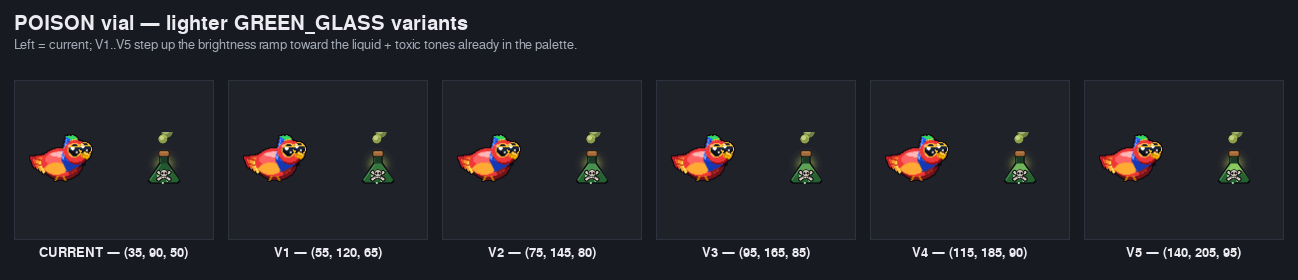
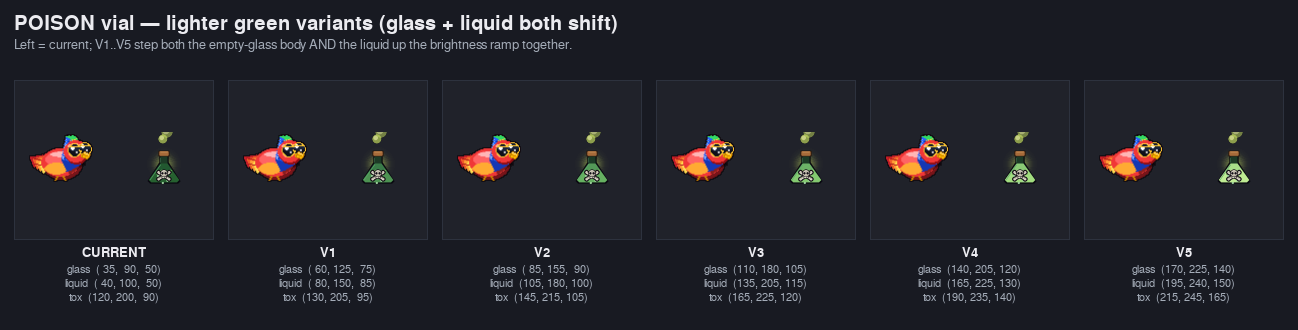
Poison vial: re-roll variant sheet to shift glass + liquid + meniscus together

diff --git a/tools/render_poison_green_variants.py b/tools/render_poison_green_variants.py
@@ -1,9 +1,10 @@
-"""Poison vial — GREEN_GLASS brightness comparison sheet.
+"""Poison vial — full green-palette brightness comparison.
 
-Five lighter candidates for the dominant glass-body green, plus a
-left-most CURRENT cell so the user can see how much brighter each
-candidate reads vs today's (35, 90, 50). Each cell shows Pip + the
-vial at the live 56-px display footprint against a charcoal card.
+Five lighter variants of the vial that shift BOTH the empty-glass
+body (GREEN_GLASS) AND the liquid (GREEN_LO) up the brightness ramp
+together. The meniscus colour (GREEN_TOX) is also lifted on the
+brightest variants so the toxic surface line stays readable above
+the liquid.
 
 Output: docs/screenshots/icon_sizes/poison_green_variants.png
 """
@@ -26,13 +27,22 @@ pygame.display.set_mode((1, 1))
 from game import poison_vial, parrot
 
 
+# Each entry: (label, GREEN_GLASS, GREEN_LO, GREEN_TOX).
+# CURRENT keeps GREEN_TOX as-is; later variants step it up too so the
+# meniscus stays the brightest layer.
 VARIANTS = (
-    ("CURRENT", poison_vial.GREEN_GLASS),
-    ("V1", ( 55, 120,  65)),
-    ("V2", ( 75, 145,  80)),
-    ("V3", ( 95, 165,  85)),
-    ("V4", (115, 185,  90)),
-    ("V5", (140, 205,  95)),
+    ("CURRENT",
+        ( 35,  90,  50), ( 40, 100,  50), (120, 200,  90)),
+    ("V1",
+        ( 60, 125,  75), ( 80, 150,  85), (130, 205,  95)),
+    ("V2",
+        ( 85, 155,  90), (105, 180, 100), (145, 215, 105)),
+    ("V3",
+        (110, 180, 105), (135, 205, 115), (165, 225, 120)),
+    ("V4",
+        (140, 205, 120), (165, 225, 130), (190, 235, 140)),
+    ("V5",
+        (170, 225, 140), (195, 240, 150), (215, 245, 165)),
 )
 
 
@@ -50,27 +60,37 @@ def _font(size, bold=False):
     return pygame.font.SysFont("Arial", size, bold=bold)
 
 
-def _draw_vial(surf, cx, cy, glass_rgb):
-    """Render the live poison_vial sprite with GREEN_GLASS swapped
-    to `glass_rgb` for this render only. Restores the original
-    constant + cache after."""
+def _draw_vial(surf, cx, cy, glass_rgb, liquid_rgb, tox_rgb):
+    """Render the vial with the three greens swapped for this render
+    only. Restores the originals + cache after."""
     prev_glass = poison_vial.GREEN_GLASS
+    prev_lo    = poison_vial.GREEN_LO
+    prev_tox   = poison_vial.GREEN_TOX
     prev_cache = getattr(poison_vial, "_VIAL_CACHE", None)
     poison_vial.GREEN_GLASS = glass_rgb
+    poison_vial.GREEN_LO    = liquid_rgb
+    poison_vial.GREEN_TOX   = tox_rgb
     poison_vial._VIAL_CACHE = None
     poison_vial.draw(surf, int(cx), int(cy), 0.0)
     poison_vial.GREEN_GLASS = prev_glass
+    poison_vial.GREEN_LO    = prev_lo
+    poison_vial.GREEN_TOX   = prev_tox
     poison_vial._VIAL_CACHE = prev_cache
 
 
-def _build_cell(glass_rgb):
+def _build_cell(glass_rgb, liquid_rgb, tox_rgb):
     cell = pygame.Surface((CELL_W, CELL_H))
     cell.fill((32, 34, 42))
     pip = parrot.get_parrot(0, 0.0)
     cell.blit(pip, pip.get_rect(center=(46, CELL_H // 2)))
-    _draw_vial(cell, CELL_W - 50, CELL_H // 2, glass_rgb)
+    _draw_vial(cell, CELL_W - 50, CELL_H // 2,
+               glass_rgb, liquid_rgb, tox_rgb)
     pygame.draw.rect(cell, (45, 50, 62), cell.get_rect(), 1)
     return cell
+
+
+def _fmt(rgb):
+    return f"({rgb[0]:>3}, {rgb[1]:>3}, {rgb[2]:>3})"
 
 
 def main():
@@ -81,29 +101,36 @@ def main():
 
     n = len(VARIANTS)
     sheet_w = PAD * 2 + n * (CELL_W + PAD) - PAD
-    sheet_h = HEADER_H + CELL_H + 40
+    sheet_h = HEADER_H + CELL_H + 90
     sheet = pygame.Surface((sheet_w, sheet_h))
     sheet.fill(CARD_BG)
 
     title = _font(20, bold=True).render(
-        "POISON vial — lighter GREEN_GLASS variants",
+        "POISON vial — lighter green variants (glass + liquid both shift)",
         True, LABEL)
     sheet.blit(title, (PAD, 14))
     sub = _font(13).render(
-        "Left = current; V1..V5 step up the brightness ramp toward the "
-        "liquid + toxic tones already in the palette.",
+        "Left = current; V1..V5 step both the empty-glass body AND the "
+        "liquid up the brightness ramp together.",
         True, SUB)
     sheet.blit(sub, (PAD, 38))
 
-    for i, (code, rgb) in enumerate(VARIANTS):
+    for i, (code, glass, lo, tox) in enumerate(VARIANTS):
         x = PAD + i * (CELL_W + PAD)
         y = HEADER_H
-        sheet.blit(_build_cell(rgb), (x, y))
-        cap = _font(13, bold=True).render(
-            f"{code} — ({rgb[0]}, {rgb[1]}, {rgb[2]})",
-            True, LABEL)
+        sheet.blit(_build_cell(glass, lo, tox), (x, y))
+        cap_font = _font(13, bold=True)
+        sub_font = _font(11)
+        cap = cap_font.render(code, True, LABEL)
         sheet.blit(cap, (x + (CELL_W - cap.get_width()) // 2,
                          y + CELL_H + 6))
+        # Three-line legend so the user can match colour-to-cell
+        for ln, (legend_lbl, val) in enumerate((
+                ("glass", glass), ("liquid", lo), ("tox", tox))):
+            text = f"{legend_lbl}  {_fmt(val)}"
+            s = sub_font.render(text, True, SUB)
+            sheet.blit(s, (x + (CELL_W - s.get_width()) // 2,
+                           y + CELL_H + 24 + ln * 14))
 
     pygame.image.save(sheet, out_path)
     print(f"saved {out_path}  ({sheet_w}x{sheet_h})")
